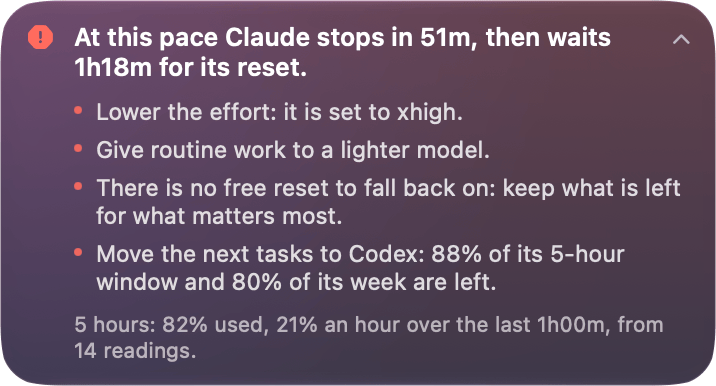
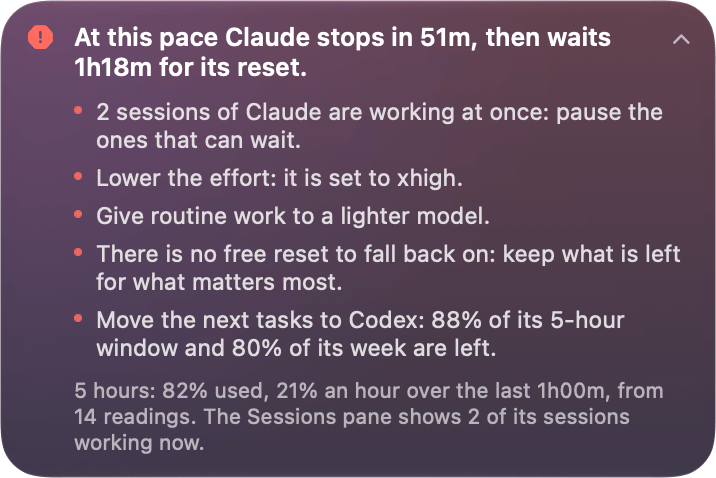
docs: the 0.61.0 screenshots, projection styles and Limits charts
The pictures were re-shot on the released 0.61.0 build, so every page
that shows one now says what is in the new frame: the stop suggestion's
five steps (the parallel-sessions step first, and its basis naming the
Sessions pane), the panel's ghost fill and Sessions card, the wall's
four waiting sessions with a Codex one first, and Settings > Panel's
Projection section.

The three parked TODOs get their pictures: one crop per projection
style beside its description on The Panel, Claude's two charts in
Limits on The Window, and the re-shot Panel pane in Settings. The new
Command line frame goes where Settings and the command-line page
describe those rows.

The hero's hard-coded sizes follow the files (panel 760x1694, stop
card 716x478, sessions panel 760x854), and the Even-pace mark and
Runway now say they draw on the 5-hour and weekly bars, as the crops
show and the panel's code does: a model's own limit gets neither.

diff --git a/components/HeroStage/HeroStage.tsx b/components/HeroStage/HeroStage.tsx
@@ -116,8 +116,8 @@ const frames: Frame[] = [
   {
     src: '/screenshot-suggestion-stop.png',
     width: 716,
-    height: 386,
-    alt: 'A Lancetta suggestion in red: at this pace Claude stops in 51m, then waits 1h18m for its reset; lower the effort, give routine work to a lighter model, there is no free reset to fall back on, move the next tasks to Codex, which has 88% of its 5-hour window and 80% of its week left; under it, what it rests on: 82% of the 5 hours used, 21% an hour over the last hour, from 14 readings',
+    height: 478,
+    alt: 'A Lancetta suggestion in red: at this pace Claude stops in 51m, then waits 1h18m for its reset; pause the ones that can wait, since 2 sessions of Claude are working at once; lower the effort, give routine work to a lighter model, there is no free reset to fall back on, move the next tasks to Codex, which has 88% of its 5-hour window and 80% of its week left; under it, what it rests on: 82% of the 5 hours used, 21% an hour over the last hour, from 14 readings, and 2 of its sessions working now in the Sessions pane',
     eyebrow: 'When to slow down',
     title: 'Before it stops, not after.',
     body: '“At this pace Claude stops in 51m, then waits 1h18m for its reset.” Lancetta says it while there is still time to act, with what helps: pausing the sessions that can wait when two or more are working, a lower effort, a lighter model for routine work, a free reset if you hold one, the other agent while it has room. The week is where it matters most — a weekly window run out on a Tuesday costs days, and only a series of readings sees it coming.',
@@ -155,8 +155,8 @@ const frames: Frame[] = [
   {
     src: '/screenshot-panel-sessions.png',
     width: 760,
-    height: 782,
-    alt: 'The sessions’ own panel: 3 waiting on you · 2 working, Your turn open on its three sessions, each with where it stands and for how long and the Open and Done buttons, Working closed beside it and Concluded below',
+    height: 854,
+    alt: 'The sessions’ own panel: 4 waiting on you · 3 working, Your turn open on its four sessions, each with its agent’s mark, where it stands and for how long, and the Open and Done buttons, the first a Codex session that asks you something; Working closed beside it at 3, and Concluded below: 2, and 3 in the last 7 days',
     eyebrow: 'What waits on you',
     title: 'Which session needs you.',
     body: 'Run a few Claude Code and Codex sessions at once and the hard part stops being the work: it is remembering which one is waiting for you. Lancetta keeps every session you started as a post-it on a wall — the ones whose turn is yours first, then the ones still working, then what you concluded. A background session opens in your terminal from there, and the sessions can have a menu-bar item of their own that counts the ones waiting on you.',
@@ -192,7 +192,7 @@ const frames: Frame[] = [
   {
     src: '/screenshot-window-overview.png',
     ...WINDOW_SHOT,
-    alt: 'The Lancetta window on its Overview: four suggestions first (Claude stops in 51m at this pace, Codex has room, Maintenance found 4 warnings, 3 orphaned Codex trees hold 1.05 GB), then the cards for Usage, Limits, Processes and Maintenance, with Usage open on the week’s tokens',
+    alt: 'The Lancetta window on its Overview: four suggestions first, all open (Claude stops in 51m at this pace, with five steps, the first to pause the ones that can wait since 2 sessions of Claude are working at once, resting on the Sessions pane showing 2 of them working now; Codex has room; Maintenance found 4 warnings; 3 orphaned Codex trees hold 1.05 GB), then the cards for Usage, Limits, Processes and Maintenance, and the top of the Sessions card under them',
     eyebrow: 'When you want the reasons',
     title: 'The window.',
     body: 'Command-O: the suggestions first, then everything they rest on — daily tokens for both agents over 7, 30 or 90 days, every window in detail with when each reading was last true, the week that just ended, the processes the agents left running, and Maintenance — and the wall of your sessions.',
@@ -204,8 +204,8 @@ const frames: Frame[] = [
 const HERO_SHOT = {
   src: '/screenshot-menu-dark.png',
   width: 760,
-  height: 1406,
-  alt: 'The Lancetta panel: three suggestions first, the most urgent open: at this pace Claude stops in 51m, then waits 1h18m for its reset, with what helps (lower the effort, a lighter model for routine work, no free reset to fall back on, move the next tasks to Codex) and what it rests on; then Codex has room, and Maintenance found 4 warnings. Under them the window in brief: Claude’s card open on its 5-hour, 7-day and Fable bars, Codex at 20%, Usage and Maintenance',
+  height: 1694,
+  alt: 'The Lancetta panel: three suggestions first, the most urgent open: at this pace Claude stops in 51m, then waits 1h18m for its reset, with what helps (pause the ones that can wait, since 2 sessions of Claude are working at once; lower the effort; a lighter model for routine work; no free reset to fall back on; move the next tasks to Codex) and what it rests on, down to the Sessions pane showing 2 of its sessions working now; then Codex has room, and Maintenance found 4 warnings. Under them the window in brief: Claude’s card open, its 5-hour bar at 82% carried on in hatched amber to a mark at its end, the pace line under it, then its 7-day and Fable bars; Codex at 20%, Usage, Maintenance, and Sessions with 4 waiting on you · 3 working',
 };
 
 export function HeroStage({ cadence = fallbackReleaseCadence() }: { cadence?: Cadence }) {
@@ -373,7 +373,7 @@ export function HeroStage({ cadence = fallbackReleaseCadence() }: { cadence?: Ca
         {/*
           The page's largest paint, so it goes through next/image: WebP at the
           size it is drawn (560px, or the column on a phone) instead of the
-          95 KB PNG, eager and high priority. `priority` is deprecated in
+          134 KB PNG, eager and high priority. `priority` is deprecated in
           Next 16 in favour of exactly these two.
         */}
         <Image

diff --git a/CLAUDE.md b/CLAUDE.md
@@ -115,7 +115,7 @@ The GitHub **social preview** has no API and no `gh` field: it is uploaded by ha
 
 ### The hero is ordinary flow
 
-Never bring back the pinned, scroll-driven stage, nor a header reading that follows the scroll (`HeroStage.tsx` and `MenuBarHeader/reading.ts` say what each cost). Measure the page's length before adding to it: `document.documentElement.scrollHeight` at 1440 and 390, in Chrome (`scripts/shot.mjs --eval`). 13,394 and 18,961 on 2026-10-17, with the Sessions frame and the nine-card strip; 10,018 and 13,967 at the last cut.
+Never bring back the pinned, scroll-driven stage, nor a header reading that follows the scroll (`HeroStage.tsx` and `MenuBarHeader/reading.ts` say what each cost). Measure the page's length before adding to it: `document.documentElement.scrollHeight` at 1440 and 390, in Chrome (`scripts/shot.mjs --eval`). 13,728 and 19,103 on 2026-10-17 with the 0.61.0 shots (the panel 1694 px tall, from 1406); 13,394 and 18,961 earlier that day, with the Sessions frame and the nine-card strip; 10,018 and 13,967 at the last cut.
 
 ### The character
 

diff --git a/README.md b/README.md
@@ -24,7 +24,7 @@
 </p>
 
 <p align="center">
-  <img src="public/screenshot-menu-dark.png" alt="The Lancetta panel: three suggestions first, the most urgent open: at this pace Claude stops in 51m, then waits 1h18m for its reset, with what helps and what it rests on; then Codex has room, and Maintenance found 4 warnings; under them each agent's windows, Usage and Maintenance" width="700" />
+  <img src="public/screenshot-menu-dark.png" alt="The Lancetta panel: three suggestions first, the most urgent open: at this pace Claude stops in 51m, then waits 1h18m for its reset, with what helps and what it rests on; then Codex has room, and Maintenance found 4 warnings; under them each agent's windows, Claude's 5-hour bar carried on in amber to where it would run out, then Usage, Maintenance and Sessions" width="700" />
 </p>
 
 <div align="center">
